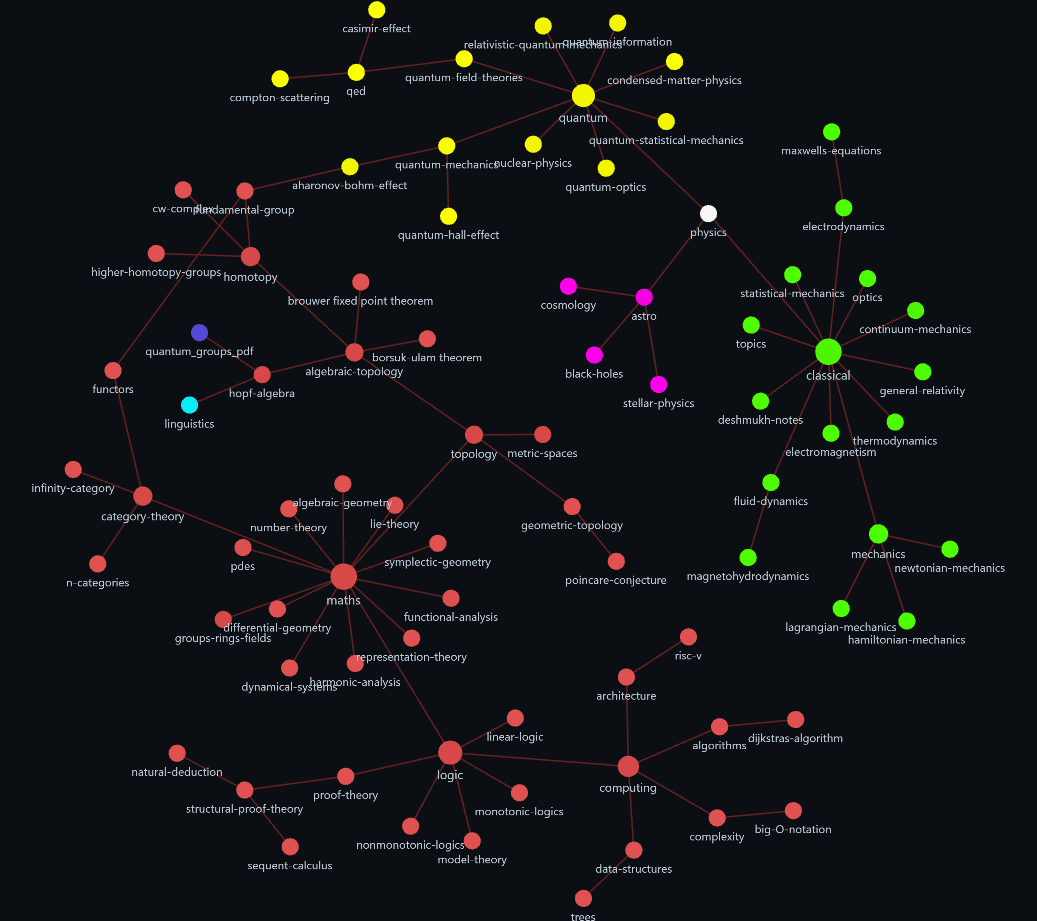
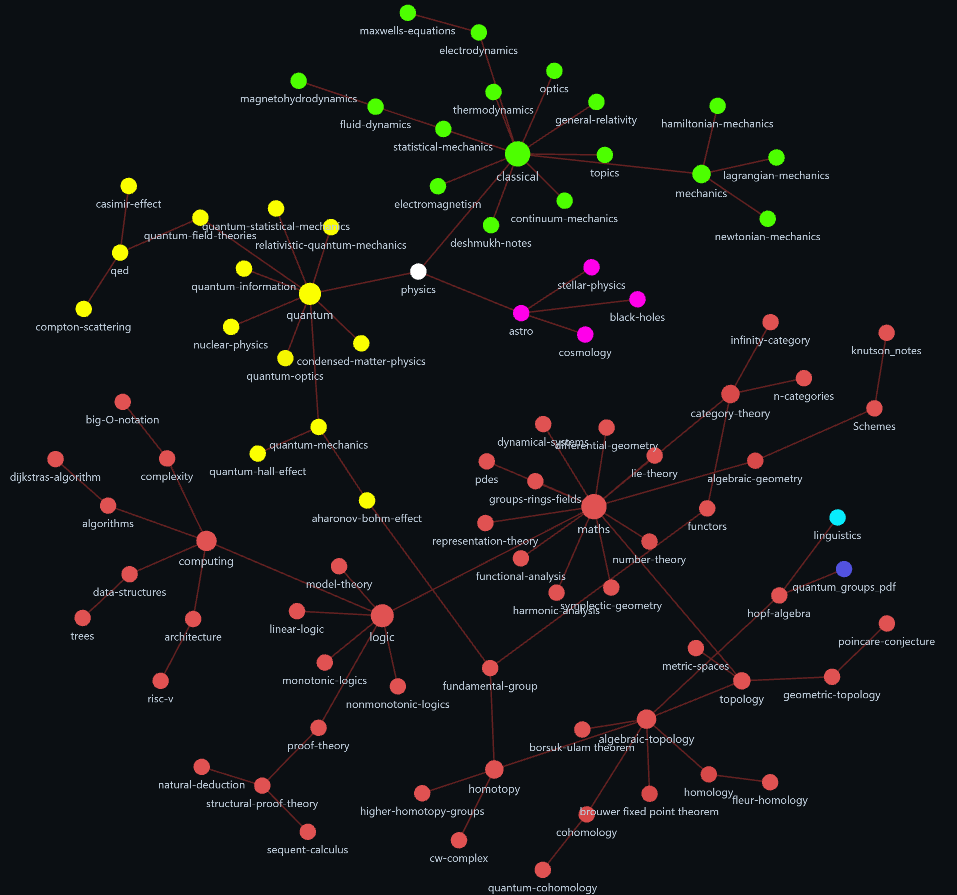
fleur homology placeholder

diff --git a/maths/topology/algebraic-topology/cohomology.md b/maths/topology/algebraic-topology/cohomology.md
@@ -1,0 +1,18 @@
+---
+title: Homotopy
+desc: ''
+
+up:
+  - [[maths/algebraic-topology]]
+---
+
+<!-- CHILDREN: auto-generated, do not edit -->
+
+## Children
+- [[quantum-cohomology|quantum-cohomlogy]]
+
+<!-- /CHILDREN -->
+
+<!-- PARENT: auto -->
+Parent: [[algebraic-topology|algebraic-topology]]
+<!-- /PARENT -->

diff --git a/maths/topology/algebraic-topology/homology.md b/maths/topology/algebraic-topology/homology.md
@@ -1,0 +1,19 @@
+---
+
+title: Homology
+desc: ''
+
+up:
+  - [[maths/algebraic-topology]]
+---
+
+<!-- CHILDREN: auto-generated, do not edit -->
+
+## Children
+- [[fleur-homology|fleur-homology]]
+
+<!-- /CHILDREN -->
+
+<!-- PARENT: auto -->
+Parent: [[algebraic-topology|algebraic-topology]]
+<!-- /PARENT -->

diff --git a/maths/topology/algebraic-topology/cohomology/quantum-cohomology.md b/maths/topology/algebraic-topology/cohomology/quantum-cohomology.md
@@ -1,0 +1,1 @@
+### Placeholder!

diff --git a/maths/topology/algebraic-topology/homology/fleur-homology.md b/maths/topology/algebraic-topology/homology/fleur-homology.md
@@ -1,0 +1,1 @@
+### Placeholder!
